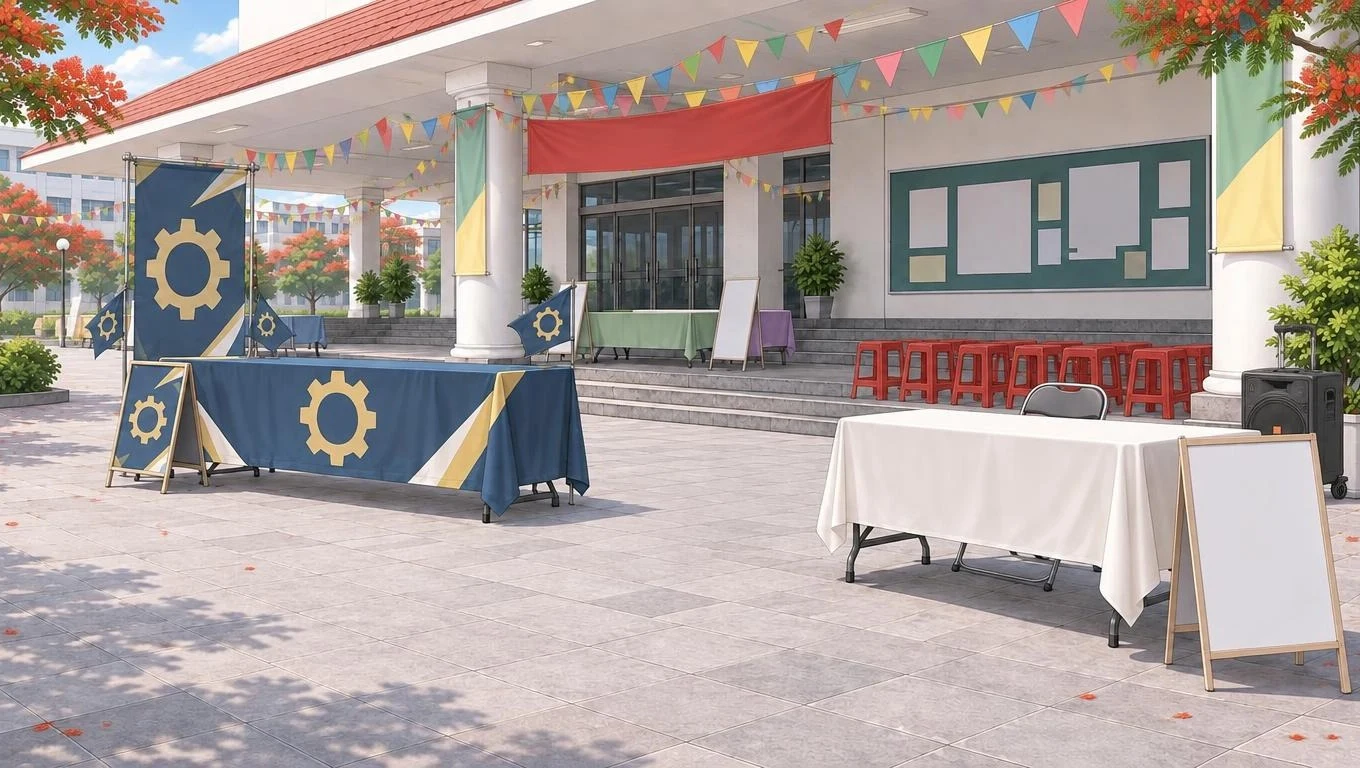
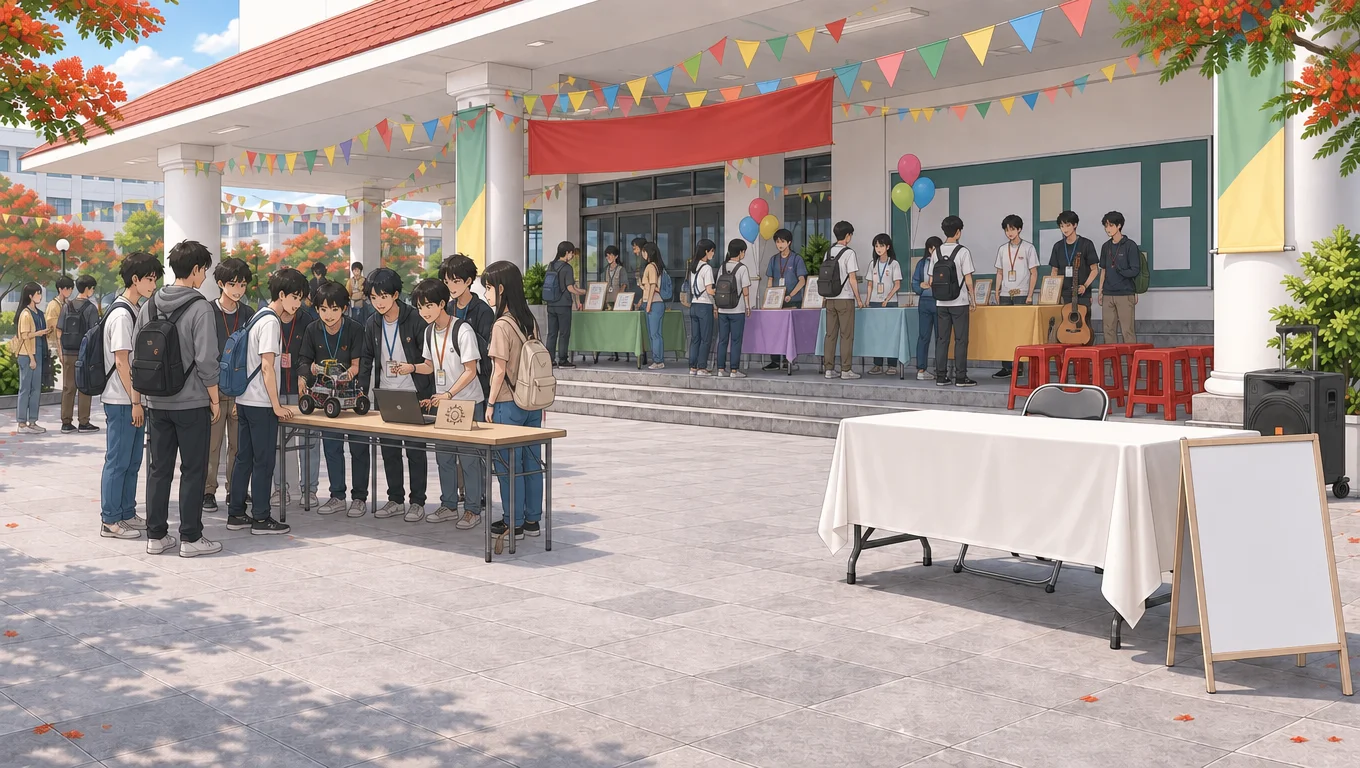
Nền Ngày hội CLB vẽ lại (sửa từ ảnh cũ, Topview): bỏ cờ/băng rôn/khăn in bánh răng, gian Robotics thành bàn gấp trơn có xe robot và đông nhất, thêm các gian CLB khăn trơn dọc bậc thềm mỗi gian vài người, bàn Thám Tử trống không ai đứng gần; biển không chữ. Cập nhật dòng dàn dựng md-09-ngay-hoi.2

diff --git a/docs/mvp/v2-thoai/vu-1/00-mo-dau.md b/docs/mvp/v2-thoai/vu-1/00-mo-dau.md
@@ -128,7 +128,7 @@ Các khối khác tinh chỉnh nhẹ từ ngữ để thoại ngắn dưới 25 
 > NHẮC VIỆC tung (chi-tay): Bàn Thám Tử ở góc kia. Tớ cá là vắng nhất sân.
 
 ## md-09-ngay-hoi.2
-- [DÀN DỰNG] Nền nhà văn hóa ngày hội (nền chưa vẽ người); gian Robotics bên trái, cờ in hình bánh răng (ảnh cần vẽ thêm — xem báo cáo rà soát A4/A5); bàn Thám Tử bên phải.
+- [DÀN DỰNG] Nền nhà văn hóa ngày hội, sân đông sinh viên: gian Robotics bên trái đông nhất (bàn gấp trơn, xe robot tự chế, biển bìa vẽ tay bánh răng nhỏ), dọc bậc thềm là mấy gian CLB khác bàn trơn, mỗi gian vài người; bàn Thám Tử khăn trắng bên phải, một ghế gấp, bảng trống, không ai đứng gần.
 - **narrator**: Sân nhà văn hóa giăng cờ, bàn CLB kê kín lối đi. Gian Robotics rộng nhất, cờ in hình bánh răng, bảng dán "Đang xin mở rộng xưởng".
 - **narrator**: Bàn CLB Thám Tử nằm tận trong góc, chỉ có một chị ngồi trực.
 - **tung** (neutral): Chị ơi, đây là bàn CLB Thám Tử ạ? Chị là thành viên ở đây ạ?

diff --git a/prototype/noi-dung-mvp/loi/00-mo-dau.md b/prototype/noi-dung-mvp/loi/00-mo-dau.md
@@ -117,7 +117,7 @@
 > NHẮC VIỆC tung (chi-tay): Bàn Thám Tử ở góc kia. Tớ cá là vắng nhất sân.
 
 ## md-09-ngay-hoi.2
-- [DÀN DỰNG] Nền nhà văn hóa ngày hội (nền chưa vẽ người); gian Robotics bên trái, cờ in hình bánh răng (ảnh cần vẽ thêm — xem báo cáo rà soát A4/A5); bàn Thám Tử bên phải.
+- [DÀN DỰNG] Nền nhà văn hóa ngày hội, sân đông sinh viên: gian Robotics bên trái đông nhất (bàn gấp trơn, xe robot tự chế, biển bìa vẽ tay bánh răng nhỏ), dọc bậc thềm là mấy gian CLB khác bàn trơn, mỗi gian vài người; bàn Thám Tử khăn trắng bên phải, một ghế gấp, bảng trống, không ai đứng gần.
 - **narrator**: Sân nhà văn hóa giăng cờ, bàn CLB kê kín lối đi. Gian Robotics rộng nhất, cờ in hình bánh răng, bảng dán "Đang xin mở rộng xưởng".
 - **narrator**: Bàn CLB Thám Tử nằm tận trong góc, chỉ có một chị ngồi trực.
 - **tung** (neutral): Chị ơi, đây là bàn CLB Thám Tử ạ? Chị là thành viên ở đây ạ?
